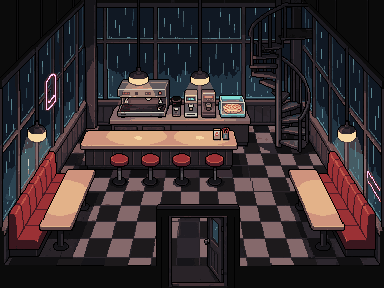
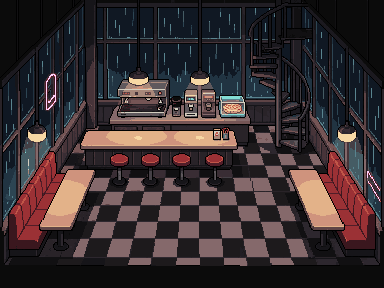
Exchange: no doorframe on the diner's ground floor
The frame standing in the middle of the floor is gone: the picture is an edited copy (i-xdiner2) with the checker
floor carried on over where it stood, and a doormat marks the way out instead, as in the houses.

Claude-Session: https://claude.ai/code/session_011FVFbT6X2tiTMEPbvbfDJT

Changed region(s): [[0.4062, 0.6875, 0.625, 1.0]]

diff --git a/game/js/exchange-rooms.js b/game/js/exchange-rooms.js
@@ -227,13 +227,14 @@
   // behind the counter in the middle, and a spiral stair in the back corner up to the dining room.
   R.xdiner = {
     name: 'THE COFFEE DINER', up: ['xupper', 8, 4, 'west'],
-    // You come in at the doorway, the bottom of the picture, and leave by stepping out of it.
+    // No door in the picture: you come in at the bottom of the floor, just inside the doormat, and leave by stepping
+    // onto it.
     map: ['############', '############', '############', '########UU##', '########..##',
       '###......###', '###......###', '###......###', '#####DD#####'],
-    enter: [5, 7, 'north'],
+    enter: [5, 7, 'north'], mat: true,
     clerk: 'xcook', counter: [4.5, 3.65, 'south'], over: [[3, 4], [4, 4], [5, 4], [6, 4]],
-    // The counter in front of Hash, and the doorway's frame in front of you on the way out.
-    front: [[80, 129, 158, 38, 4], [156, 203, 84, 12, 6], [156, 203, 12, 85, 6], [228, 203, 12, 85, 6]],
+    // The counter in front of Hash.
+    front: [[80, 129, 158, 38, 4]],
     // Four at most, storm or not: Hash, the two regulars and Neel.
     people: () => ['xcook', 'xdin0', 'xdin1'].concat(inDiner()),
     // The middle of the floor stays clear: it is the only way from the door to the stairs. Everyone stands where you can

diff --git a/game/tools/interiors_art.py b/game/tools/interiors_art.py
@@ -10,8 +10,8 @@ from PIL import Image
 
 SRC, OUT, JS = sys.argv[1], sys.argv[2], sys.argv[3]
 os.makedirs(OUT, exist_ok=True)
-# A few rooms use an edited copy of their download (doug2, i-bank2, i-light2, i-club2, i-temple3) so the way out reads
-# as a real opening; the raw folder's README says what changed.
+# A few rooms use an edited copy of their download (doug2, i-bank2, i-light2, i-club2, i-temple3, i-xdiner2) so the way
+# out reads as a real opening; the raw folder's README says what changed.
 ROOMS = {'treehouse': 'treehouse1', 'bunker': 'bunker1', 'cafe': 'cafe1', 'flat': 'flat1', 'lexi': 'lexi1',
          'kaito': 'kaito1', 'doug': 'doug2', 'coo': 'coo1', 'bru': 'bru1', 'ayo': 'ayo1',
          # The Eventual Isles' buildings (js/isles/isles-map.js) and Aigerim's card shop on the North Road.
@@ -27,7 +27,7 @@ ROOMS = {'treehouse': 'treehouse1', 'bunker': 'bunker1', 'cafe': 'cafe1', 'flat'
          'theatre': 'i-theatre',
          # The Exchange's shops and back rooms (js/exchange-rooms.js): Toro's cards, the pawn shop, the warehouse's back
          # room, the diner and the bakery.
-         'xtoro': 'i-xtoro', 'xpawn': 'i-xpawn', 'xback': 'i-xback', 'xdiner': 'i-xdiner', 'xbakery': 'i-xbakery',
+         'xtoro': 'i-xtoro', 'xpawn': 'i-xpawn', 'xback': 'i-xback', 'xdiner': 'i-xdiner2', 'xbakery': 'i-xbakery',
          # The Coffee Diner's two floors upstairs: the dining room up its spiral stair, and the lounge at the top.
          'xupper': 'i-xupper', 'xlounge': 'i-xlounge'}
 # Residential row doors (js/hub.js): X Lexi, Y Kaito, D Doug, Q Coo, M Bru, O Ayo. Each house faces the middle of the
